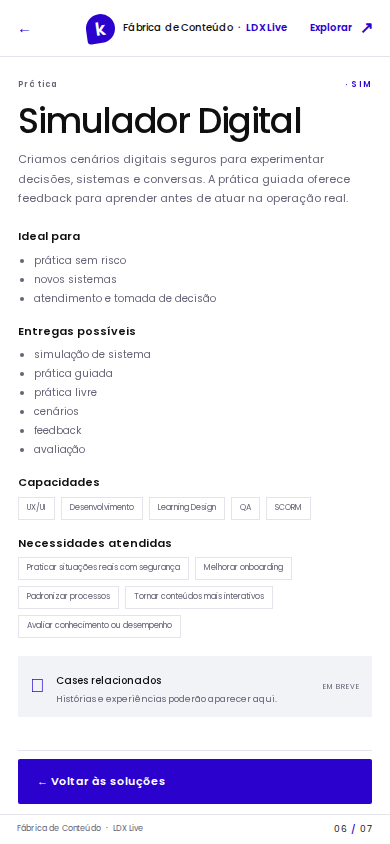
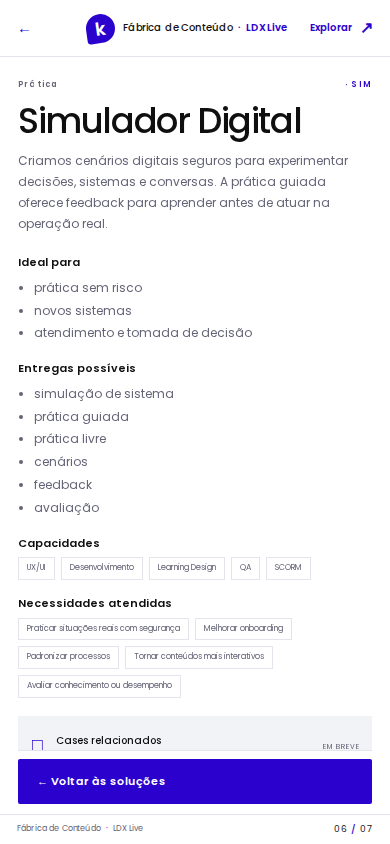
fix: harden screen navigation accessibility

diff --git a/assets/css/styles.css b/assets/css/styles.css
@@ -18,8 +18,9 @@
 *{box-sizing:border-box}
 html{font-family:Poppins,Arial,sans-serif;color:var(--ink);background:var(--surface);font-size:15px;line-height:1.6}
 body{margin:0;min-width:320px;min-height:100vh;min-height:100dvh;background:var(--surface)}
-button,a{font:inherit}button{color:inherit}a{color:inherit;text-decoration:none}button:focus-visible,a:focus-visible{outline:3px solid var(--brand-primary-soft);outline-offset:3px}
+button,a{font:inherit}button{color:inherit}a{color:inherit;text-decoration:none}button:focus-visible,a:focus-visible{outline:3px solid var(--brand-primary);outline-offset:3px}
 [hidden]{display:none!important}
+.visually-hidden{position:absolute!important;width:1px;height:1px;padding:0;margin:-1px;overflow:hidden;clip:rect(0,0,0,0);white-space:nowrap;border:0}
 .app-shell{height:100vh;height:100dvh;min-height:560px;display:flex;flex-direction:column;overflow:hidden;background:var(--surface)}
 .app-header{height:72px;flex:none;display:grid;grid-template-columns:1fr auto 1fr;align-items:center;padding:0 clamp(20px,5vw,72px);border-bottom:1px solid var(--line);background:var(--surface);position:relative;z-index:5}
 .brand{display:flex;align-items:center;gap:11px;width:max-content}.brand-symbol{width:33px;height:33px;display:grid;place-items:center;background:var(--brand-primary);color:var(--white);font-weight:600;font-size:21px;line-height:1;border-radius:50% 50% 50% 12%;transform:rotate(-8deg)}.brand-name{font-size:11px;font-weight:500;letter-spacing:-.2px;white-space:nowrap}.brand-name i,.app-footer i{font-style:normal;color:var(--brand-primary);padding:0 3px}.brand-name b{font-weight:600;color:var(--brand-primary)}
@@ -30,26 +31,26 @@ button,a{font:inherit}button{color:inherit}a{color:inherit;text-decoration:none}
 /* Home is one deliberate viewport, not the start of a long-form page. */
 .screen-home{background:var(--surface-alt)}.home-layout{max-width:var(--max-width);height:100%;min-height:0;margin:0 auto;padding:40px 34px 44px;display:grid;grid-template-columns:1.08fr .92fr;align-items:center;gap:16px}.home-copy{position:relative;z-index:1;max-width:690px}.eyebrow{display:flex;align-items:center;gap:8px;font-size:9px;font-weight:600;letter-spacing:1.55px;color:var(--muted);margin:0 0 25px}.eyebrow>span{width:7px;height:7px;border-radius:50%;background:var(--brand-primary)}.eyebrow i{font-style:normal;color:var(--brand-primary)}.home-copy h1{font-size:clamp(40px,5vw,64px);line-height:1.12;letter-spacing:-3px;font-weight:500;margin:0;max-width:705px}.home-support{max-width:510px;margin:21px 0 0;font-size:14px;line-height:1.85;color:var(--muted)}.home-actions{display:flex;gap:13px;align-items:center;margin-top:30px}.button{min-height:48px;padding:0 18px;display:inline-flex;align-items:center;justify-content:center;gap:18px;border:1px solid transparent;border-radius:2px;font-size:11px;font-weight:600;cursor:pointer;transition:background .16s,color .16s,border-color .16s,transform .16s}.button:hover:not(:disabled){transform:translateY(-1px)}.button-primary{background:var(--brand-primary);color:var(--white)}.button-primary:hover:not(:disabled){background:var(--brand-primary-strong)}.button-primary:disabled{background:var(--surface-alt);color:var(--disabled-ink);cursor:not-allowed}.button-secondary{background:transparent;color:var(--brand-primary);border-color:var(--brand-primary)}.button-secondary:hover{background:var(--brand-primary-wash)}.button span{font-size:16px}.home-visual{height:min(520px,70%);min-height:340px;position:relative;display:grid;place-items:center;overflow:hidden}.visual-ring{position:absolute;border:1px solid var(--brand-primary-soft);border-radius:50%;transform:rotate(-27deg)}.ring-a{width:min(36vw,430px);height:min(25vw,290px)}.ring-b{width:min(26vw,330px);height:min(41vw,450px);transform:rotate(42deg);border-color:var(--line)}.visual-core{position:relative;width:164px;height:164px;border-radius:50%;background:var(--brand-primary);color:var(--white);display:flex;flex-direction:column;align-items:center;justify-content:center;z-index:1}.visual-core span{font-size:36px;font-weight:500;letter-spacing:2px;line-height:1.2}.visual-core small{font-size:9px;letter-spacing:4px}.visual-label{position:absolute;font-size:9px;letter-spacing:1.2px;line-height:1.5;color:var(--brand-primary-strong)}.label-a{left:5%;top:26%}.label-b{right:7%;bottom:23%}.label-b span{color:var(--brand-primary);font-size:15px}.visual-index{position:absolute;bottom:7%;right:8%;font-size:8px;letter-spacing:1.3px;color:var(--muted)}.visual-index b{display:block;color:var(--brand-primary);font-weight:500;margin-top:4px}
 /* Explore paths */
-.explore-inner{padding-top:clamp(48px,9vh,90px)}.path-cards{display:grid;grid-template-columns:1fr 1fr;gap:16px;margin-top:36px}.path-card{min-height:260px;padding:24px 26px;background:var(--surface);border:1px solid var(--line);display:flex;flex-direction:column;align-items:flex-start;position:relative;transition:border-color .18s,background .18s}.path-card:hover{border-color:var(--brand-primary);background:var(--brand-primary-wash)}.path-primary{background:var(--brand-primary);border-color:var(--brand-primary);color:var(--white)}.path-primary:hover{background:var(--brand-primary-strong);border-color:var(--brand-primary-strong)}.path-index{font-size:8px;font-weight:600;letter-spacing:1.1px;color:var(--brand-primary)}.path-index i{font-style:normal;font-weight:400;margin-left:6px}.path-primary .path-index{color:var(--brand-primary-soft)}.path-icon{position:absolute;right:26px;top:17px;font-size:32px;color:var(--brand-primary);font-weight:400}.path-primary .path-icon{color:var(--brand-primary-soft)}.path-card h2{font-size:23px;letter-spacing:-.7px;line-height:1.3;font-weight:500;margin:28px 0 8px}.path-card p{font-size:11px;color:var(--muted);line-height:1.8;max-width:370px;margin:0}.path-primary p{color:var(--on-brand-muted)}.path-action{display:flex;align-items:center;justify-content:space-between;gap:30px;width:100%;margin-top:auto;padding-top:18px;font-size:10px;font-weight:600;color:var(--brand-primary)}.path-action b{font-size:17px;font-weight:400}.path-primary .path-action{color:var(--white)}
+.explore-inner{padding-top:clamp(48px,9vh,90px)}.path-cards{display:grid;grid-template-columns:1fr 1fr;gap:16px;margin-top:36px}.path-card{min-height:260px;padding:24px 26px;background:var(--surface);border:1px solid var(--line);display:flex;flex-direction:column;align-items:flex-start;position:relative;transition:border-color .18s,background .18s}.path-card:hover{border-color:var(--brand-primary);background:var(--brand-primary-wash)}.path-primary{background:var(--brand-primary);border-color:var(--brand-primary);color:var(--white)}.path-primary:hover{background:var(--brand-primary-strong);border-color:var(--brand-primary-strong)}.path-index{font-size:8px;font-weight:600;letter-spacing:1.1px;color:var(--brand-primary)}.path-index i{font-style:normal;font-weight:400;margin-left:6px}.path-primary .path-index{color:var(--brand-primary-soft)}.path-icon{position:absolute;right:26px;top:17px;font-size:32px;color:var(--brand-primary);font-weight:400}.path-primary .path-icon{color:var(--brand-primary-soft)}.path-card h2{font-size:23px;letter-spacing:-.7px;line-height:1.3;font-weight:500;margin:28px 0 8px}.path-card p{font-size:13px;color:var(--muted);line-height:1.8;max-width:370px;margin:0}.path-primary p{color:var(--on-brand-muted)}.path-action{display:flex;align-items:center;justify-content:space-between;gap:30px;width:100%;margin-top:auto;padding-top:18px;font-size:10px;font-weight:600;color:var(--brand-primary)}.path-action b{font-size:17px;font-weight:400}.path-primary .path-action{color:var(--white)}
 /* Need checklist */
-.needs-inner{padding-top:32px;padding-bottom:20px;min-height:100%;display:flex;flex-direction:column}.needs-inner .screen-heading{margin-bottom:17px}.needs-inner .screen-kicker{margin-bottom:10px}.needs-inner .screen-heading h1{font-size:clamp(34px,4vw,50px)}.needs-inner .screen-intro{margin-top:8px}.need-grid{display:grid;grid-template-columns:repeat(3,minmax(0,1fr));gap:9px;margin:10px 0 18px}.need-option{min-height:58px;padding:10px 13px;display:flex;align-items:center;gap:11px;text-align:left;background:var(--surface);border:1px solid var(--line);font-size:11px;line-height:1.45;cursor:pointer;transition:border-color .15s,background .15s,color .15s}.need-option:hover{border-color:var(--brand-primary-soft)}.need-option.is-selected{border-color:var(--brand-primary);background:var(--brand-primary-wash);color:var(--brand-primary-strong)}.need-check{flex:none;width:20px;height:20px;display:grid;place-items:center;border:1px solid var(--control-line);color:transparent;font-size:12px}.need-option.is-selected .need-check{background:var(--brand-primary);border-color:var(--brand-primary);color:var(--white)}.screen-actions{display:flex;align-items:center;justify-content:space-between;gap:16px}.needs-actions{position:sticky;bottom:0;margin-top:auto;padding:12px 0 max(10px,env(safe-area-inset-bottom));background:var(--surface);border-top:1px solid var(--line)}.selection-count{font-size:10px;color:var(--muted)}.needs-actions>div{display:flex;align-items:center;gap:18px}.quiet-link{border:0;background:transparent;color:var(--brand-primary);font-size:10px;font-weight:500;cursor:pointer}.quiet-link:hover{text-decoration:underline}.needs-actions .button{min-width:152px}
+.needs-inner{padding-top:32px;padding-bottom:20px;min-height:100%;display:flex;flex-direction:column}.needs-inner .screen-heading{margin-bottom:17px}.needs-inner .screen-kicker{margin-bottom:10px}.needs-inner .screen-heading h1{font-size:clamp(34px,4vw,50px)}.needs-inner .screen-intro{margin-top:8px}.need-grid{display:grid;grid-template-columns:repeat(3,minmax(0,1fr));gap:9px;margin:10px 0 18px}.need-option{min-height:58px;padding:10px 13px;display:flex;align-items:center;gap:11px;text-align:left;background:var(--surface);border:1px solid var(--line);font-size:12px;line-height:1.45;cursor:pointer;transition:border-color .15s,background .15s,color .15s}.need-option:hover{border-color:var(--brand-primary-soft)}.need-option.is-selected{border-color:var(--brand-primary);background:var(--brand-primary-wash);color:var(--brand-primary-strong)}.need-check{flex:none;width:20px;height:20px;display:grid;place-items:center;border:1px solid var(--control-line);color:transparent;font-size:12px}.need-option.is-selected .need-check{background:var(--brand-primary);border-color:var(--brand-primary);color:var(--white)}.screen-actions{display:flex;align-items:center;justify-content:space-between;gap:16px}.needs-actions{position:sticky;bottom:0;margin-top:auto;padding:12px 0 max(10px,env(safe-area-inset-bottom));background:var(--surface);border-top:1px solid var(--line)}.selection-count{font-size:10px;color:var(--muted)}.needs-actions>div{display:flex;align-items:center;gap:18px}.quiet-link{border:0;background:transparent;color:var(--brand-primary);font-size:10px;font-weight:500;cursor:pointer}.quiet-link:hover{text-decoration:underline}.needs-actions .button{min-width:152px}
 /* Results and catalog */
-.results-summary{display:flex;align-items:center;justify-content:space-between;gap:14px;margin-top:19px}.results-summary>span:first-child{display:flex;flex-wrap:wrap;gap:7px}.results-summary>span:first-child span{font-size:9px;color:var(--brand-primary-strong);background:var(--brand-primary-wash);padding:6px 10px;border-radius:20px}.results-count{white-space:nowrap;color:var(--brand-primary);font-size:12px;font-weight:600}.results-actions{padding:12px 0;margin:0 0 8px;border-top:1px solid var(--line);border-bottom:1px solid var(--line)}.results-actions .quiet-link:last-child{margin-left:auto}.solution-grid{display:grid;grid-template-columns:repeat(3,minmax(0,1fr));gap:11px}.solution-card{min-width:0;min-height:205px;padding:16px 17px 13px;text-align:left;display:flex;flex-direction:column;align-items:flex-start;background:var(--surface);border:1px solid var(--line);cursor:pointer;transition:border-color .15s,background .15s,transform .15s}.solution-card:hover,.solution-card:focus-visible{border-color:var(--brand-primary);background:var(--brand-primary-wash);transform:translateY(-2px)}.card-meta{width:100%;display:flex;justify-content:space-between;align-items:center;color:var(--brand-primary);font-size:8px;letter-spacing:.5px}.card-meta i{font-style:normal;color:var(--muted)}.solution-card strong{font-size:16px;line-height:1.35;font-weight:500;margin:14px 0 6px;letter-spacing:-.2px}.card-description{font-size:10px;line-height:1.65;color:var(--muted)}.card-capabilities{display:flex;gap:6px;flex-wrap:wrap;margin-top:11px}.card-capabilities i{font-style:normal;font-size:8px;padding:4px 7px;background:var(--surface-alt);color:var(--muted);border-radius:1px}.card-open{display:flex;align-items:center;justify-content:space-between;width:100%;margin-top:auto;padding-top:10px;font-size:9px;color:var(--brand-primary)}.card-open b{font-size:14px;font-weight:400}.empty-state{text-align:center;padding:44px 20px}.empty-state h2{font-size:19px;font-weight:500}.empty-state p{font-size:12px;color:var(--muted)}.empty-state .button{margin-top:10px}
-.catalog-controls{display:flex;align-items:center;justify-content:space-between;gap:15px;margin:23px 0 13px}.category-filters{display:flex;gap:6px;flex-wrap:wrap}.category-filter{min-height:34px;padding:0 12px;border:1px solid var(--line);background:var(--surface);color:var(--muted);font-size:9px;cursor:pointer}.category-filter:hover{border-color:var(--brand-primary-soft)}.category-filter.is-active{background:var(--brand-primary);color:var(--white);border-color:var(--brand-primary)}#catalog-count{white-space:nowrap;color:var(--muted);font-size:9px}
+.results-summary{display:flex;align-items:center;justify-content:space-between;gap:14px;margin-top:19px}.results-summary>span:first-child{display:flex;flex-wrap:wrap;gap:7px}.results-summary>span:first-child span{font-size:9px;color:var(--brand-primary-strong);background:var(--brand-primary-wash);padding:6px 10px;border-radius:20px}.results-count{white-space:nowrap;color:var(--brand-primary);font-size:12px;font-weight:600}.results-actions{padding:12px 0;margin:0 0 8px;border-top:1px solid var(--line);border-bottom:1px solid var(--line)}.results-actions .quiet-link:last-child{margin-left:auto}.solution-grid{display:grid;grid-template-columns:repeat(3,minmax(0,1fr));gap:11px}.solution-card{min-width:0;min-height:205px;padding:16px 17px 13px;text-align:left;display:flex;flex-direction:column;align-items:flex-start;background:var(--surface);border:1px solid var(--line);cursor:pointer;transition:border-color .15s,background .15s,transform .15s}.solution-card:hover,.solution-card:focus-visible{border-color:var(--brand-primary);background:var(--brand-primary-wash);transform:translateY(-2px)}.card-meta{width:100%;display:flex;justify-content:space-between;align-items:center;color:var(--brand-primary);font-size:8px;letter-spacing:.5px}.card-meta i{font-style:normal;color:var(--muted)}.solution-card strong{font-size:16px;line-height:1.35;font-weight:500;margin:14px 0 6px;letter-spacing:-.2px}.card-description{font-size:12px;line-height:1.65;color:var(--muted)}.card-capabilities{display:flex;gap:6px;flex-wrap:wrap;margin-top:11px}.card-capabilities i{font-style:normal;font-size:8px;padding:4px 7px;background:var(--surface-alt);color:var(--muted);border-radius:1px}.card-open{display:flex;align-items:center;justify-content:space-between;width:100%;margin-top:auto;padding-top:10px;font-size:9px;color:var(--brand-primary)}.card-open b{font-size:14px;font-weight:400}.empty-state{text-align:center;padding:44px 20px}.empty-state h2{font-size:19px;font-weight:500}.empty-state p{font-size:12px;color:var(--muted)}.empty-state .button{margin-top:10px}
+.catalog-controls{display:flex;align-items:center;justify-content:space-between;gap:15px;margin:23px 0 13px}.category-filters{display:flex;gap:6px;flex-wrap:wrap}.category-filter{min-height:44px;padding:0 12px;border:1px solid var(--line);background:var(--surface);color:var(--muted);font-size:9px;cursor:pointer}.category-filter:hover{border-color:var(--brand-primary-soft)}.category-filter.is-active{background:var(--brand-primary);color:var(--white);border-color:var(--brand-primary)}#catalog-count{white-space:nowrap;color:var(--muted);font-size:9px}
 /* Full screen solution details */
-.detail-screen{height:100%;display:flex;flex-direction:column;max-width:1050px;margin:0 auto;padding:25px 34px 0}.detail-scroll{flex:1;min-height:0;overflow:auto;padding:10px 0 18px}.detail-heading{max-width:800px}.detail-heading .screen-kicker{margin-bottom:10px}.detail-heading h1{font-size:clamp(36px,4.7vw,56px);font-weight:500;letter-spacing:-2px;line-height:1.1;margin:0}.detail-description{font-size:13px;line-height:1.85;color:var(--muted);max-width:720px;margin:14px 0 0}.detail-columns{display:grid;grid-template-columns:1fr 1fr;gap:22px 42px;margin-top:28px}.detail-columns section h2{font-size:11px;font-weight:600;margin:0 0 8px}.detail-columns ul{padding-left:16px;margin:0;color:var(--muted);font-size:10px;line-height:1.9}.detail-tags{display:flex;gap:6px;flex-wrap:wrap}.detail-tags span{font-size:9px;padding:5px 9px;border:1px solid var(--line);color:var(--muted)}.case-slot{display:flex;align-items:center;gap:12px;padding:13px 15px;margin-top:23px;background:var(--surface-alt)}.case-slot>span{font-size:19px;color:var(--brand-primary)}.case-slot b{font-size:10px;font-weight:500}.case-slot p{font-size:9px;color:var(--muted);margin:1px 0 0}.case-slot small{margin-left:auto;font-size:8px;letter-spacing:1px;color:var(--muted)}.detail-bottom{flex:none;padding:10px 0 max(14px,env(safe-area-inset-bottom));border-top:1px solid var(--line);background:var(--surface)}.detail-bottom .button{min-width:190px}
+.detail-screen{height:100%;display:flex;flex-direction:column;max-width:1050px;margin:0 auto;padding:25px 34px 0}.detail-scroll{flex:1;min-height:0;overflow:auto;padding:10px 0 18px}.detail-heading{max-width:800px}.detail-heading .screen-kicker{margin-bottom:10px}.detail-heading h1{font-size:clamp(36px,4.7vw,56px);font-weight:500;letter-spacing:-2px;line-height:1.1;margin:0}.detail-description{font-size:13px;line-height:1.85;color:var(--muted);max-width:720px;margin:14px 0 0}.detail-columns{display:grid;grid-template-columns:1fr 1fr;gap:22px 42px;margin-top:28px}.detail-columns section h2{font-size:11px;font-weight:600;margin:0 0 8px}.detail-columns ul{padding-left:16px;margin:0;color:var(--muted);font-size:12px;line-height:1.9}.detail-tags{display:flex;gap:6px;flex-wrap:wrap}.detail-tags span{font-size:9px;padding:5px 9px;border:1px solid var(--line);color:var(--muted)}.case-slot{display:flex;align-items:center;gap:12px;padding:13px 15px;margin-top:23px;background:var(--surface-alt)}.case-slot>span{font-size:19px;color:var(--brand-primary)}.case-slot b{font-size:10px;font-weight:500}.case-slot p{font-size:9px;color:var(--muted);margin:1px 0 0}.case-slot small{margin-left:auto;font-size:8px;letter-spacing:1px;color:var(--muted)}.detail-bottom{flex:none;padding:10px 0 max(14px,env(safe-area-inset-bottom));border-top:1px solid var(--line);background:var(--surface)}.detail-bottom .button{min-width:190px}
 /* Independent process screen */
-.process-inner{padding-top:32px}.process-inner .screen-heading{margin-bottom:23px}.process-grid{display:grid;grid-template-columns:repeat(3,minmax(0,1fr));border-top:1px solid var(--line);border-left:1px solid var(--line)}.process-step{min-height:145px;padding:17px 18px;border-right:1px solid var(--line);border-bottom:1px solid var(--line);display:flex;gap:15px}.step-number{flex:none;display:flex;align-items:center;gap:8px;color:var(--brand-primary);font-size:9px;letter-spacing:1px}.step-number i{display:block;width:15px;height:1px;background:var(--brand-primary-soft)}.process-step h2{font-size:15px;font-weight:500;margin:0 0 6px}.process-step p{font-size:10px;line-height:1.7;color:var(--muted);margin:0}.process-endnote{margin-top:20px;font-size:8px;letter-spacing:1.4px;color:var(--muted)}
+.process-inner{padding-top:32px}.process-inner .screen-heading{margin-bottom:23px}.process-grid{display:grid;grid-template-columns:repeat(3,minmax(0,1fr));border-top:1px solid var(--line);border-left:1px solid var(--line)}.process-step{min-height:145px;padding:17px 18px;border-right:1px solid var(--line);border-bottom:1px solid var(--line);display:flex;gap:15px}.step-number{flex:none;display:flex;align-items:center;gap:8px;color:var(--brand-primary);font-size:9px;letter-spacing:1px}.step-number i{display:block;width:15px;height:1px;background:var(--brand-primary-soft)}.process-step h2{font-size:15px;font-weight:500;margin:0 0 6px}.process-step p{font-size:12px;line-height:1.7;color:var(--muted);margin:0}.process-endnote{margin-top:20px;font-size:8px;letter-spacing:1.4px;color:var(--muted)}
 @media(max-width:900px){.app-header{padding:0 23px}.desktop-nav{gap:17px}.desktop-nav a{font-size:10px}.home-layout{padding-left:27px;padding-right:27px;grid-template-columns:1.12fr .88fr}.home-copy h1{font-size:clamp(38px,6vw,55px)}.home-visual{transform:scale(.88)}.screen-inner{padding-left:25px;padding-right:25px}.need-grid{grid-template-columns:repeat(2,minmax(0,1fr))}.solution-grid{grid-template-columns:repeat(2,minmax(0,1fr))}.process-grid{grid-template-columns:repeat(2,minmax(0,1fr))}.process-step{min-height:128px}}
 @media(max-width:600px){
   .app-shell{min-height:540px}.app-header{height:57px;grid-template-columns:1fr auto;padding:0 17px}.brand{gap:8px}.brand-symbol{width:29px;height:29px;font-size:18px}.brand-name{font-size:10px}.desktop-nav{display:none}.header-cta{font-size:10px;gap:8px}.app-header:has(.back-button:not([hidden])){grid-template-columns:54px 1fr 70px}.app-header:has(.back-button:not([hidden])) .brand{display:flex;grid-column:2;justify-self:center}.app-header:has(.back-button:not([hidden])) .back-button{grid-column:1}.app-header:has(.back-button:not([hidden])) .header-cta{grid-column:3}.back-button{font-size:15px;min-height:44px;padding:5px 0}.back-button span{display:none}.app-footer{height:30px;padding:0 17px;font-size:8px}.screen-inner{padding:34px 20px 26px}.screen-kicker{font-size:8px;letter-spacing:1.2px;margin-bottom:12px}.screen-inner>h1,.screen-heading h1{font-size:39px;letter-spacing:-1.7px}.screen-intro{font-size:12px;line-height:1.7;margin-top:10px}
   .home-layout{display:flex;flex-direction:column;justify-content:center;align-items:stretch;padding:29px 22px 34px;position:relative;overflow:hidden}.home-copy{max-width:100%}.eyebrow{font-size:8px;margin-bottom:18px;letter-spacing:1.15px}.home-copy h1{font-size:clamp(34px,9.5vw,43px);line-height:1.12;letter-spacing:-1.8px;max-width:520px}.home-support{font-size:12px;line-height:1.75;margin-top:14px;max-width:440px}.home-actions{display:flex;align-items:stretch;flex-direction:column;gap:9px;margin-top:23px;max-width:340px}.home-actions .button{width:100%;justify-content:space-between;min-height:48px}.home-visual{position:absolute;width:215px;height:190px;min-height:0;right:-71px;bottom:-59px;opacity:.12;transform:none;pointer-events:none}.visual-core{width:112px;height:112px}.visual-core span{font-size:27px}.ring-a{width:210px;height:125px}.ring-b{width:145px;height:220px}.visual-label,.visual-index{display:none}
-  .explore-inner{padding-top:clamp(38px,8vh,65px)}.path-cards{grid-template-columns:1fr;gap:11px;margin-top:25px}.path-card{min-height:200px;padding:18px 19px}.path-card h2{font-size:20px;margin:20px 0 6px}.path-card p{font-size:10px;max-width:320px}.path-icon{font-size:26px;right:19px;top:12px}.path-action{padding-top:12px}
+  .explore-inner{padding-top:clamp(38px,8vh,65px)}.path-cards{grid-template-columns:1fr;gap:11px;margin-top:25px}.path-card{min-height:200px;padding:18px 19px}.path-card h2{font-size:20px;margin:20px 0 6px}.path-card p{font-size:12px;max-width:320px}.path-icon{font-size:26px;right:19px;top:12px}.path-action{padding-top:12px}
   .needs-inner{padding:23px 16px 0}.needs-inner .screen-heading{margin-bottom:13px}.needs-inner .screen-kicker{font-size:7px;margin-bottom:8px}.needs-inner .screen-heading h1{font-size:33px;letter-spacing:-1.4px}.needs-inner .screen-intro{font-size:11px;margin-top:6px}.need-grid{grid-template-columns:1fr;gap:7px;margin:7px 0 11px}.need-option{min-height:44px;padding:7px 10px;font-size:10px;gap:9px}.need-check{width:19px;height:19px}.needs-actions{margin-left:-16px;margin-right:-16px;padding:9px 16px max(9px,env(safe-area-inset-bottom));gap:7px;flex-wrap:wrap}.selection-count{font-size:9px}.needs-actions>div{gap:11px}.needs-actions .quiet-link{font-size:9px}.needs-actions .button{min-width:119px;min-height:43px;padding:0 11px;gap:7px;font-size:10px}
-  .results-summary{align-items:flex-start}.results-summary>span:first-child{gap:5px}.results-summary>span:first-child span{font-size:8px;padding:5px 8px}.results-count{font-size:10px}.results-actions{gap:10px}.results-actions .quiet-link{font-size:9px}.solution-grid{grid-template-columns:1fr;gap:8px}.solution-card{min-height:154px;padding:12px 14px}.solution-card strong{font-size:15px;margin:9px 0 4px}.card-description{font-size:9px;line-height:1.55}.card-capabilities{margin-top:7px}.card-open{padding-top:7px}.screen[data-screen="results"] .screen-inner{padding-top:25px}.screen[data-screen="results"] .screen-heading{margin-bottom:14px}.screen[data-screen="results"] .screen-heading h1{font-size:33px}
-  .screen[data-screen="catalog"] .screen-inner{padding-top:27px}.catalog-controls{display:block;margin:17px 0 11px}.category-filters{flex-wrap:nowrap;overflow-x:auto;padding:0 0 7px;scrollbar-width:thin}.category-filter{white-space:nowrap;min-height:36px;padding:0 11px;font-size:9px}.catalog-controls>#catalog-count{display:block;margin-top:5px;text-align:right}.screen[data-screen="catalog"] .solution-card{min-height:150px}
-  .detail-screen{height:100%;padding:15px 18px 0}.detail-scroll{padding:7px 0 15px}.detail-heading .screen-kicker{font-size:8px}.detail-heading h1{font-size:35px;letter-spacing:-1.4px}.detail-description{font-size:11px;line-height:1.75;margin-top:10px}.detail-columns{grid-template-columns:1fr;gap:15px;margin-top:20px}.detail-columns section h2{margin-bottom:5px}.detail-columns ul{font-size:10px}.detail-tags span{font-size:8px;padding:4px 8px}.case-slot{padding:11px 12px;margin-top:18px}.case-slot small{font-size:7px}.detail-bottom{padding:8px 0 max(10px,env(safe-area-inset-bottom))}.detail-bottom .button{width:100%;min-height:45px;justify-content:flex-start}
-  .process-inner{padding-top:27px}.process-inner .screen-heading{margin-bottom:16px}.process-grid{grid-template-columns:1fr;border:0;margin-left:4px}.process-step{min-height:0;padding:12px 8px 15px 0;border:0;border-left:1px solid var(--brand-primary-soft);gap:13px}.step-number{width:34px;justify-content:center;margin-left:-17px;background:var(--surface);align-items:flex-start;padding-top:3px}.step-number i{display:none}.process-step h2{font-size:14px;margin-bottom:3px}.process-step p{font-size:10px;max-width:350px}.process-endnote{font-size:7px;letter-spacing:1px;margin-top:12px}
+  .results-summary{align-items:flex-start}.results-summary>span:first-child{gap:5px}.results-summary>span:first-child span{font-size:8px;padding:5px 8px}.results-count{font-size:10px}.results-actions{gap:10px}.results-actions .quiet-link{font-size:9px}.solution-grid{grid-template-columns:1fr;gap:8px}.solution-card{min-height:154px;padding:12px 14px}.solution-card strong{font-size:15px;margin:9px 0 4px}.card-description{font-size:11px;line-height:1.55}.card-capabilities{margin-top:7px}.card-open{padding-top:7px}.screen[data-screen="results"] .screen-inner{padding-top:25px}.screen[data-screen="results"] .screen-heading{margin-bottom:14px}.screen[data-screen="results"] .screen-heading h1{font-size:33px}
+  .screen[data-screen="catalog"] .screen-inner{padding-top:27px}.catalog-controls{display:block;margin:17px 0 11px}.category-filters{flex-wrap:nowrap;overflow-x:auto;padding:0 0 7px;scrollbar-width:thin}.category-filter{white-space:nowrap;min-height:44px;padding:0 11px;font-size:10px}.catalog-controls>#catalog-count{display:block;margin-top:5px;text-align:right}.screen[data-screen="catalog"] .solution-card{min-height:150px}
+  .detail-screen{height:100%;padding:15px 18px 0}.detail-scroll{padding:7px 0 15px}.detail-heading .screen-kicker{font-size:8px}.detail-heading h1{font-size:35px;letter-spacing:-1.4px}.detail-description{font-size:12px;line-height:1.75;margin-top:10px}.detail-columns{grid-template-columns:1fr;gap:15px;margin-top:20px}.detail-columns section h2{margin-bottom:5px}.detail-columns ul{font-size:12px}.detail-tags span{font-size:8px;padding:4px 8px}.case-slot{padding:11px 12px;margin-top:18px}.case-slot small{font-size:7px}.detail-bottom{padding:8px 0 max(10px,env(safe-area-inset-bottom))}.detail-bottom .button{width:100%;min-height:45px;justify-content:flex-start}
+  .process-inner{padding-top:27px}.process-inner .screen-heading{margin-bottom:16px}.process-grid{grid-template-columns:1fr;border:0;margin-left:4px}.process-step{min-height:0;padding:12px 8px 15px 0;border:0;border-left:1px solid var(--brand-primary-soft);gap:13px}.step-number{width:34px;justify-content:center;margin-left:-17px;background:var(--surface);align-items:flex-start;padding-top:3px}.step-number i{display:none}.process-step h2{font-size:14px;margin-bottom:3px}.process-step p{font-size:12px;max-width:350px}.process-endnote{font-size:7px;letter-spacing:1px;margin-top:12px}
 }
 @media(max-height:720px) and (max-width:600px){.home-layout{padding-top:18px;padding-bottom:20px}.eyebrow{margin-bottom:11px}.home-copy h1{font-size:34px}.home-support{font-size:11px;margin-top:10px}.home-actions{margin-top:15px;gap:7px}.home-actions .button{min-height:43px}.needs-inner{padding-top:15px}.needs-inner .screen-heading{margin-bottom:7px}.need-option{min-height:39px}.needs-actions{padding-top:6px}}
 @media(prefers-reduced-motion:reduce){*,*::before,*::after{animation-duration:.01ms!important;animation-iteration-count:1!important;scroll-behavior:auto!important;transition-duration:.01ms!important}}

diff --git a/assets/js/app.js b/assets/js/app.js
@@ -1,6 +1,12 @@
 (() => {
   const routes = ['home','explore','needs','results','catalog','detail','process'];
   const needsSelected = new Set();
+  const stringList = value => Array.isArray(value) && value.every(item => typeof item === 'string');
+  const catalogItems = (Array.isArray(window.CATALOG) ? window.CATALOG : []).filter(item => item &&
+    ['id','name','category','shortDescription','fullDescription'].every(key => typeof item[key] === 'string' && item[key].trim()) &&
+    ['idealFor','needs','capabilities','outputs','caseIds'].every(key => stringList(item[key])));
+  const needOptions = (Array.isArray(window.NEEDS) ? window.NEEDS : []).filter(item => item && typeof item.id === 'string' && item.id.trim() && typeof item.label === 'string' && item.label.trim());
+  const processSteps = (Array.isArray(window.PROCESS) ? window.PROCESS : []).filter(step => Array.isArray(step) && step.length >= 2 && step.slice(0,2).every(value => typeof value === 'string' && value.trim()));
   let activeCategory = 'Todas';
   let activeSolution = null;
   let previousFocus = null;
@@ -19,7 +25,7 @@
   function restoreNeedsFromRoute(){
     const {route,params}=fromRoute();
     if(!['needs','results'].includes(route)||!params.has('ids'))return;
-    needsSelected.clear();params.get('ids').split(',').filter(Boolean).forEach(id=>{if(window.NEEDS.some(n=>n.id===id))needsSelected.add(id);});
+    needsSelected.clear();params.get('ids').split(',').filter(Boolean).forEach(id=>{if(needOptions.some(n=>n.id===id))needsSelected.add(id);});
   }
   const needsHash = route => {
     const ids = [...needsSelected];
@@ -34,33 +40,36 @@
   function list(items){return items.map(item=>`<li>${esc(item)}</li>`).join('');}
   function card(item,index){return `<button class="solution-card" type="button" data-solution="${esc(item.id)}" aria-label="Ver detalhes de ${esc(item.name)}"><span class="card-meta"><span>${esc(item.category)}</span><i>${String(index+1).padStart(2,'0')}</i></span><strong>${esc(item.name)}</strong><span class="card-description">${esc(item.shortDescription)}</span><span class="card-capabilities">${item.capabilities.slice(0,2).map(x=>`<i>${esc(x)}</i>`).join('')}</span><span class="card-open">Ver solução <b aria-hidden="true">↗</b></span></button>`;}
   function renderNeeds(){
-    get('#need-grid').innerHTML=window.NEEDS.map(need=>`<button class="need-option${needsSelected.has(need.id)?' is-selected':''}" type="button" data-need="${need.id}" aria-pressed="${needsSelected.has(need.id)}"><span class="need-check" aria-hidden="true">${needsSelected.has(need.id)?'✓':'+'}</span><span>${esc(need.label)}</span></button>`).join('');
+    get('#need-grid').innerHTML=needOptions.map(need=>`<button class="need-option${needsSelected.has(need.id)?' is-selected':''}" type="button" data-need="${esc(need.id)}" aria-pressed="${needsSelected.has(need.id)}"><span class="need-check" aria-hidden="true">${needsSelected.has(need.id)?'✓':'+'}</span><span>${esc(need.label)}</span></button>`).join('');
     const n=needsSelected.size;get('#selection-count').textContent=n?`${n} ${n===1?'necessidade selecionada':'necessidades selecionadas'}`:'Nenhuma necessidade selecionada';get('#show-results').disabled=!n;
     if(fromRoute().route==='needs'&&history.state?.ldxRoute==='needs')history.replaceState({...history.state,selectedNeeds:[...needsSelected]},'',needsHash('needs'));
   }
   function renderResults(){
-    const needs=window.NEEDS.filter(n=>needsSelected.has(n.id));
+    const needs=needOptions.filter(n=>needsSelected.has(n.id));
     if(!needs.length){navigate('needs',{replace:true});return;}
-    const items=window.CATALOG.filter(item=>item.needs.some(id=>needsSelected.has(id)));
+    const items=catalogItems.filter(item=>item.needs.some(id=>needsSelected.has(id)));
     get('#selected-summary').innerHTML=needs.map(n=>`<span>${esc(n.label)}</span>`).join('');
     get('#results-count').textContent=`${items.length} ${items.length===1?'solução':'soluções'}`;
     get('#empty-state').hidden=items.length>0;
     get('#results-grid').innerHTML=items.map(card).join('');
   }
   function renderCatalog(){
-    const categories=['Todas',...new Set(window.CATALOG.map(item=>item.category))];
+    const categories=['Todas',...new Set(catalogItems.map(item=>item.category))];
     get('#category-filters').innerHTML=categories.map(category=>`<button type="button" class="category-filter${activeCategory===category?' is-active':''}" data-category="${esc(category)}" aria-pressed="${activeCategory===category}">${esc(category)}</button>`).join('');
-    const items=activeCategory==='Todas'?window.CATALOG:window.CATALOG.filter(item=>item.category===activeCategory);
+    const items=activeCategory==='Todas'?catalogItems:catalogItems.filter(item=>item.category===activeCategory);
+    get('#screen-catalog .screen-intro').textContent=`${catalogItems.length} possibilidades para transformar aprendizagem e operação.`;
     get('#catalog-count').textContent=`${items.length} ${items.length===1?'solução':'soluções'}`;
-    get('#catalog-empty').hidden=items.length>0;get('#catalog-grid').innerHTML=items.map(card).join('');
+    get('#catalog-empty').hidden=items.length>0;
+    if(catalogItems.length===0)get('#catalog-empty h2').textContent='O catálogo não está disponível no momento.';
+    get('#catalog-grid').innerHTML=items.map(card).join('');
   }
   function renderDetail(id){
-    const item=window.CATALOG.find(x=>x.id===id);if(!item){navigate('catalog',{replace:true});return;}
+    const item=catalogItems.find(x=>x.id===id);if(!item){navigate('catalog',{replace:true});return;}
     activeSolution=item.id;previousFocus=document.activeElement;
-    const labels=item.needs.map(id=>window.NEEDS.find(n=>n.id===id)?.label).filter(Boolean);
+    const labels=item.needs.map(id=>needOptions.find(n=>n.id===id)?.label).filter(Boolean);
     get('#detail-screen').innerHTML=`<div class="detail-scroll"><header class="detail-heading"><p class="screen-kicker">${esc(item.category)} <span>· ${esc(item.id)}</span></p><h1 id="detail-title">${esc(item.name)}</h1><p class="detail-description">${esc(item.fullDescription)}</p></header><div class="detail-columns"><section><h2>Ideal para</h2><ul>${list(item.idealFor)}</ul></section><section><h2>Entregas possíveis</h2><ul>${list(item.outputs)}</ul></section><section><h2>Capacidades</h2><div class="detail-tags">${item.capabilities.map(x=>`<span>${esc(x)}</span>`).join('')}</div></section><section><h2>Necessidades atendidas</h2><div class="detail-tags">${labels.map(x=>`<span>${esc(x)}</span>`).join('')}</div></section></div><div class="case-slot"><span aria-hidden="true">＋</span><div><b>Cases relacionados</b><p>Histórias e experiências poderão aparecer aqui.</p></div><small>EM BREVE</small></div></div><div class="detail-bottom"><button class="button button-primary" type="button" data-action="back-detail">← Voltar às soluções</button></div>`;
   }
-  function renderProcess(){get('#process-grid').innerHTML=window.PROCESS.map((step,i)=>`<article class="process-step"><span class="step-number">${String(i+1).padStart(2,'0')} <i></i></span><div><h2>${esc(step[0])}</h2><p>${esc(step[1])}</p></div></article>`).join('');}
+  function renderProcess(){get('#process-grid').innerHTML=processSteps.map((step,i)=>`<article class="process-step"><span class="step-number">${String(i+1).padStart(2,'0')} <i></i></span><div><h2>${esc(step[0])}</h2><p>${esc(step[1])}</p></div></article>`).join('');}
   function renderRoute(){
     const {route,id}=fromRoute();const wasDetail=!get('#screen-detail').hidden;const oldScreen=lastScreen;const screen=route==='solution'?'detail':route;
     document.querySelectorAll('[data-screen]').forEach(el=>{el.hidden=el.dataset.screen!==screen;el.classList.remove('screen-enter');});
@@ -77,6 +86,7 @@
     else if(hasRendered&&oldScreen!==screen){const heading=current?.querySelector('h1');if(heading){heading.tabIndex=-1;heading.focus({preventScroll:true});}}
     lastScreen=screen;hasRendered=true;
     lastRenderedHash=location.hash;
+    const announcement=get('#route-announcement');const heading=current?.querySelector('h1');if(announcement&&heading)announcement.textContent=heading.textContent.replace(/\s+/g,' ').trim();
     document.title=`${route==='home'?'Fábrica de Conteúdo · LDX Live':({explore:'Como explorar',needs:'Escolha por necessidade',results:'Soluções para seu desafio',catalog:'Catálogo de soluções',solution:activeSolution?'Detalhe da solução':'Solução',process:'Como trabalhamos'}[route])} · LDX Live`;
   }
   document.addEventListener('click',e=>{

diff --git a/index.html b/index.html
@@ -21,7 +21,7 @@
       <nav class="desktop-nav" aria-label="Navegação principal"><a href="#/catalog">Catálogo</a><a href="#/needs">Por necessidade</a><a href="#/process">Como trabalhamos</a></nav>
       <a class="header-cta" href="#/explore">Explorar <span aria-hidden="true">↗</span></a>
     </header>
-    <main id="app-main" class="app-main" tabindex="-1" aria-live="polite">
+    <main id="app-main" class="app-main" tabindex="-1">
       <section class="screen screen-home" id="screen-home" data-screen="home" aria-labelledby="home-title">
         <div class="home-layout"><div class="home-copy"><p class="eyebrow"><span></span> FÁBRICA DE CONTEÚDO <i>·</i> LDX LIVE</p><h1 id="home-title">Transformamos necessidades em experiências que fazem pessoas <em>aprender, praticar e performar.</em></h1><p class="home-support">Estratégia, conteúdo, design e tecnologia para construir experiências conectadas ao desafio real da operação.</p><div class="home-actions"><a class="button button-primary" href="#/explore">Conheça nosso catálogo <span>↗</span></a><a class="button button-secondary" href="#/process">Como trabalhamos <span>→</span></a></div></div><div class="home-visual" aria-hidden="true"><div class="visual-ring ring-a"></div><div class="visual-ring ring-b"></div><div class="visual-core"><span>LDX</span><small>LIVE</small></div><div class="visual-label label-a">LEARNING<br>EXPERIENCE</div><div class="visual-label label-b">DESIGN <span>↗</span></div><div class="visual-index">FÁBRICA <b>01 — 20</b></div></div></div>
       </section>
@@ -32,6 +32,7 @@
       <section class="screen" id="screen-detail" data-screen="detail" aria-labelledby="detail-title" hidden><div class="detail-screen" id="detail-screen"></div></section>
       <section class="screen" id="screen-process" data-screen="process" aria-labelledby="process-title" hidden><div class="screen-inner process-inner"><div class="screen-heading"><p class="screen-kicker">COMO TRABALHAMOS</p><h1 id="process-title">Da necessidade à <em>experiência.</em></h1><p class="screen-intro">Um processo colaborativo que conecta intenção, execução e evolução contínua.</p></div><div class="process-grid" id="process-grid"></div><div class="process-endnote">DO PRIMEIRO INSIGHT À PRÓXIMA POSSIBILIDADE.</div></div></section>
     </main>
+    <p id="route-announcement" class="visually-hidden" aria-live="polite" aria-atomic="true"></p>
     <footer class="app-footer"><span>Fábrica de Conteúdo <i>·</i> LDX Live</span><span id="screen-position">01 <b>/</b> 07</span></footer>
   </div>
 </body>

diff --git a/docs/M1_HARDENING_QA.md b/docs/M1_HARDENING_QA.md
@@ -1,0 +1,28 @@
+# M1 — MVP hardening QA
+
+**Status branch QA:** PASS — 2026-09-23  
+**Branch:** `feat/phase2-foundation`
+
+## Mudanças de hardening
+
+- Live region isolada: mudanças de tela anunciam somente o respectivo título; listas de catálogo não são anunciadas como um único bloco.
+- Dados ausentes/malformados são filtrados por schema básico em runtime; catálogo, needs e processo degradam para estados vazios legíveis sem exceção JS.
+- Foco visível usa o violeta de marca de alto contraste. Texto secundário de cards, needs, detalhe e processo foi aumentado para leitura móvel; filtro de categoria tem alvo touch mínimo de 44 px.
+- Conteúdo/data source central (20 soluções e 12 needs) não alterado.
+
+## QA
+
+- Semântica: landmarks `header`, `nav`, `main`, `footer`, headings por tela, botões e links nativos; páginas ocultas usam `hidden`.
+- Navegação por teclado: Enter em CTA/solução, Escape do detalhe, foco no título de tela e retorno do foco ao card de origem — PASS.
+- Hash, refresh de detalhe/needs/results, Browser Back/Forward e restauração multi-select — PASS.
+- Multi-select e resultados OR; limpar/ajustar; filtro por categoria; vazio legível com dados incompletos — PASS.
+- Poppins bloqueada deliberadamente: fallback `Poppins, Arial, sans-serif`; home continuou funcional e sem overflow — PASS.
+- Dado incompleto deliberado (`CATALOG` inválido, `NEEDS` ausente, `PROCESS` inválido): vazio seguro, CTA coerente e zero page errors — PASS.
+- Touch: chips de categoria medidos com 44 px; cards/checks e CTAs excedem esse mínimo — PASS.
+- Contraste medido sobre superfície branca: ink 19.17:1, muted 5.78:1, violeta primário 10.58:1 — PASS (mínimo de texto normal 4.5:1).
+- Viewports e todos os estados (`home`, `explore`, `needs`, `results`, `catalog`, `solution`, `process`): 1440×900, 1024×768, 768×1024, 390×844 — PASS, zero overflow horizontal.
+- JavaScript syntax, console/page errors, links/assets em HTTP local — PASS, zero erros.
+
+## Próximo
+
+Integrar após este PASS, testar novamente produção pública e continuar M2. As features de Fase 2 permanecem ausentes/inativas neste marco.

diff --git a/docs/EXECUTION_STATUS.md b/docs/EXECUTION_STATUS.md
@@ -45,7 +45,7 @@ Atualizado em 2026-09-23 (America/Sao_Paulo).
 |---|---|---|
 | M-1 Visual/Nav | PASS | `docs/M1_VISUAL_NAV_QA.md`, evidências visuais, validação Pages |
 | M0 Baseline e segurança | PASS | Este registro; Pages e varredura estática revistas |
-| M1 Hardening do MVP | PENDING | Próximo marco |
+| M1 Hardening do MVP | PASS local; Pages público pós-integração pendente | [docs/M1_HARDENING_QA.md](M1_HARDENING_QA.md) |
 | M2 Estado e arquitetura data-driven | PENDING | — |
 | M3 Feature flags | PENDING | — |
 | M4 Lead capture scaffold inativo | PENDING | — |
@@ -72,6 +72,7 @@ Atualizado em 2026-09-23 (America/Sao_Paulo).
 
 - `node --check assets/js/app.js` — PASS.
 - `node --check assets/js/catalog-data.js` — PASS.
+- M1 hardening Chromium local: keyboard/Enter/Escape/foco, fallback Poppins, malformed data, contraste, targets touch, 7 rotas × 4 viewports — PASS.
 - `git diff --check` — PASS.
 - HTTP local `python3 -m http.server 8080` — home/CSS/JS 200.
 - Chromium: fluxos, teclado/foco, refresh, Back/Forward, 4 viewports — PASS, 0 erros.
@@ -91,4 +92,4 @@ Atualizado em 2026-09-23 (America/Sao_Paulo).
 
 ## PRÓXIMO PASSO
 
-M1 Hardening do MVP na branch `feat/phase2-foundation`; corrigir apenas defeitos objetivos, revalidar gates e registrar o resultado. Manter produção no `main`.
+Publicar o M1 hardening após validação da branch; confirmar Pages/rotas/assets sem regressão; então iniciar M2 (validação determinística dos dados).
